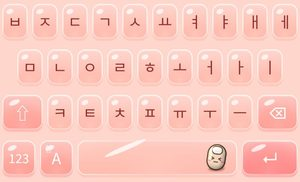
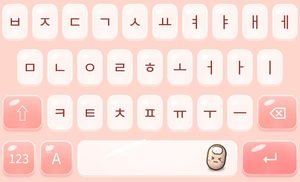
2026.11.12-2 테마 20가지 정리
Claude-Session: https://claude.ai/code/session_01GvSCgEXELCVfxACkb9NKF6

diff --git a/Shared/KBTheme.swift b/Shared/KBTheme.swift
@@ -55,44 +55,28 @@ struct KBTheme {
                 pressKey: c(232, 228, 222), pressSpecial: c(150, 14, 60),
                 text: c(0, 62, 146), specialText: .white,
                 accent: c(200, 156, 60), depth: 4, radius: 10, bgImage: "bg_stripe"),
-        KBTheme(id: "mint", name: "민트 소다",
-                bg: c(132, 222, 206), key: c(236, 252, 248), special: c(90, 200, 186),
-                pressKey: c(212, 240, 234), pressSpecial: c(74, 184, 170),
-                text: c(30, 96, 92), specialText: .white,
-                accent: c(44, 170, 190), depth: 4, radius: 10),
-        KBTheme(id: "peach", name: "피치",
-                bg: c(255, 214, 204), key: c(255, 176, 160), special: c(255, 140, 130),
-                pressKey: c(250, 150, 134), pressSpecial: c(236, 116, 106),
-                text: c(150, 50, 46), specialText: .white,
-                accent: c(255, 110, 110), depth: 4, radius: 12),
-        KBTheme(id: "lime", name: "라임",
-                bg: c(214, 236, 190), key: c(249, 252, 241), special: c(176, 220, 110),
-                pressKey: c(232, 242, 218), pressSpecial: c(156, 204, 90),
-                text: c(60, 90, 40), specialText: c(40, 70, 24),
-                side: c(196, 214, 168), sideSpecial: c(116, 166, 56), accent: c(110, 172, 52),
-                depth: 4, radius: 10),
-        KBTheme(id: "lavender", name: "라벤더",
-                bg: c(232, 224, 248), key: c(242, 235, 253), special: c(198, 180, 240),
-                pressKey: c(226, 216, 246), pressSpecial: c(180, 160, 230),
-                text: c(100, 80, 150), specialText: .white,
-                accent: c(160, 130, 232), depth: 4, radius: 12),
-        KBTheme(id: "pin", name: "핀스트라이프",
-                bg: c(250, 250, 251), key: .white, special: c(30, 30, 34),
-                pressKey: c(236, 236, 238), pressSpecial: c(54, 54, 58),
-                text: c(24, 24, 28), specialText: .white,
-                accent: c(204, 24, 44), depth: 4, radius: 10, bgImage: "bg_pin"),
         KBTheme(id: "race", name: "레이싱 레드",
                 bg: c(16, 18, 24), key: c(30, 30, 33), special: c(190, 18, 28),
                 pressKey: c(46, 46, 50), pressSpecial: c(160, 12, 22),
                 text: c(236, 236, 238), specialText: .white,
                 accent: c(214, 22, 32), depth: 4, radius: 10),
 
-        // ---- 레트로 10색 (키캡 모양 고르기) ----
+        // ---- 레트로 10색 (키캡 모양 고르기),
         KBTheme(id: "rt_rose", name: "블랙 & 로즈 골드",
                 bg: c(14, 12, 14), key: c(42, 38, 40), special: c(28, 25, 27),
                 pressKey: c(60, 55, 57), pressSpecial: c(46, 42, 44),
                 text: c(226, 176, 156), specialText: c(226, 176, 156),
                 depth: 4, radius: 10, short: "로즈 골드"),
+        KBTheme(id: "rt_mono", name: "블랙",
+                bg: c(30, 30, 34), key: c(70, 70, 76), special: c(50, 50, 55),
+                pressKey: c(92, 92, 98), pressSpecial: c(70, 70, 76),
+                text: c(246, 246, 242), specialText: c(246, 246, 242),
+                depth: 4, radius: 10, short: "블랙"),
+        KBTheme(id: "pin", name: "핀스트라이프",
+                bg: c(250, 250, 251), key: .white, special: c(30, 30, 34),
+                pressKey: c(236, 236, 238), pressSpecial: c(54, 54, 58),
+                text: c(24, 24, 28), specialText: .white,
+                accent: c(204, 24, 44), depth: 4, radius: 10, bgImage: "bg_pin"),
         KBTheme(id: "rt_navy", name: "네이비 & 오렌지",
                 bg: c(36, 52, 92), key: c(246, 242, 232), special: c(72, 98, 156),
                 pressKey: c(231, 227, 218), pressSpecial: c(66, 90, 143),
@@ -103,43 +87,16 @@ struct KBTheme {
                 pressKey: c(75, 116, 206), pressSpecial: c(234, 187, 58),
                 text: c(255, 255, 255), specialText: c(90, 60, 10),
                 accent: c(255, 204, 64), depth: 4, radius: 10, short: "로열 블루"),
-        KBTheme(id: "rt_mint", name: "민트 & 크림",
-                bg: c(120, 220, 200), key: c(255, 253, 242), special: c(70, 206, 184),
-                pressKey: c(239, 237, 227), pressSpecial: c(64, 189, 169),
-                text: c(40, 110, 100), specialText: .white,
-                accent: c(255, 112, 90), depth: 4, radius: 10, short: "민트 크림"),
-        KBTheme(id: "rt_cherry", name: "체리 & 크림",
-                bg: c(214, 44, 72), key: c(255, 242, 228), special: c(255, 90, 110),
-                pressKey: c(239, 227, 214), pressSpecial: c(234, 82, 101),
-                text: c(170, 40, 60), specialText: .white,
-                accent: c(255, 196, 90), depth: 4, radius: 10, short: "체리"),
-        KBTheme(id: "rt_mono", name: "블랙",
-                bg: c(30, 30, 34), key: c(70, 70, 76), special: c(50, 50, 55),
-                pressKey: c(92, 92, 98), pressSpecial: c(70, 70, 76),
-                text: c(246, 246, 242), specialText: c(246, 246, 242),
-                depth: 4, radius: 10, short: "블랙"),
-        KBTheme(id: "rt_milk", name: "딸기 우유",
-                bg: c(255, 206, 220), key: c(255, 255, 255), special: c(255, 116, 156),
-                pressKey: c(239, 239, 239), pressSpecial: c(234, 106, 143),
-                text: c(200, 70, 110), specialText: .white,
-                accent: c(255, 72, 124), depth: 4, radius: 10, short: "딸기 우유"),
-        KBTheme(id: "rt_matcha", name: "말차 라떼",
-                bg: c(168, 214, 130), key: c(252, 252, 238), special: c(104, 176, 80),
-                pressKey: c(236, 236, 223), pressSpecial: c(95, 161, 73),
-                text: c(70, 110, 50), specialText: .white,
-                accent: c(226, 146, 74), depth: 4, radius: 10, short: "말차"),
+        KBTheme(id: "aurora", name: "오로라",
+                bg: c(40, 44, 100), key: c(214, 240, 250), special: c(140, 110, 230),
+                pressKey: c(190, 222, 238), pressSpecial: c(120, 92, 210),
+                text: c(50, 70, 130), specialText: .white,
+                accent: c(70, 206, 170)),
         KBTheme(id: "rt_sky", name: "하늘 & 핑크",
                 bg: c(204, 228, 252), key: c(255, 255, 255), special: c(118, 180, 244),
                 pressKey: c(239, 239, 239), pressSpecial: c(108, 165, 224),
                 text: c(60, 110, 170), specialText: .white,
                 accent: c(255, 128, 170), depth: 4, radius: 10, short: "하늘 핑크"),
-        KBTheme(id: "rt_lavender", name: "라벤더 드림",
-                bg: c(178, 148, 244), key: c(250, 246, 255), special: c(196, 156, 255),
-                pressKey: c(235, 231, 239), pressSpecial: c(180, 143, 234),
-                text: c(110, 70, 190), specialText: .white,
-                accent: c(136, 86, 250), depth: 4, radius: 10, short: "라벤더"),
-
-        // ---- 겨울 (레트로 기계식 키캡: 오목한 윗면 + 도톰한 몸통) ----
         KBTheme(id: "winter", name: "눈사람",
                 bg: c(170, 200, 240), key: c(252, 254, 255), special: c(150, 190, 240),
                 pressKey: c(226, 238, 252), pressSpecial: c(130, 172, 228),
@@ -147,6 +104,36 @@ struct KBTheme {
                 accent: c(110, 160, 232),
                 bgImage: "bg_winter", enterIcon: "enter_snowman", sticker: "sticker_snow",
                 cap: "sa"),
+        KBTheme(id: "mint", name: "민트 소다",
+                bg: c(132, 222, 206), key: c(236, 252, 248), special: c(90, 200, 186),
+                pressKey: c(212, 240, 234), pressSpecial: c(74, 184, 170),
+                text: c(30, 96, 92), specialText: .white,
+                accent: c(44, 170, 190), depth: 4, radius: 10),
+        KBTheme(id: "rt_mint", name: "민트 & 크림",
+                bg: c(120, 220, 200), key: c(255, 253, 242), special: c(70, 206, 184),
+                pressKey: c(239, 237, 227), pressSpecial: c(64, 189, 169),
+                text: c(40, 110, 100), specialText: .white,
+                accent: c(255, 112, 90), depth: 4, radius: 10, short: "민트 크림"),
+        KBTheme(id: "holly", name: "홀리 그린",
+                bg: c(30, 110, 70), key: c(255, 250, 240), special: c(220, 50, 56),
+                pressKey: c(240, 232, 218), pressSpecial: c(196, 40, 48),
+                text: c(30, 100, 60), specialText: .white,
+                accent: c(220, 50, 56), short: "홀리"),
+        KBTheme(id: "peach", name: "피치",
+                bg: c(255, 214, 204), key: c(255, 251, 249), special: c(255, 140, 130),
+                pressKey: c(246, 234, 230), pressSpecial: c(236, 116, 106),
+                text: c(150, 50, 46), specialText: .white,
+                accent: c(255, 110, 110), depth: 4, radius: 12),
+        KBTheme(id: "rt_cherry", name: "체리 & 크림",
+                bg: c(214, 44, 72), key: c(255, 242, 228), special: c(255, 90, 110),
+                pressKey: c(239, 227, 214), pressSpecial: c(234, 82, 101),
+                text: c(170, 40, 60), specialText: .white,
+                accent: c(255, 196, 90), depth: 4, radius: 10, short: "체리"),
+        KBTheme(id: "rt_milk", name: "딸기 우유",
+                bg: c(255, 206, 220), key: c(255, 255, 255), special: c(255, 116, 156),
+                pressKey: c(239, 239, 239), pressSpecial: c(234, 106, 143),
+                text: c(200, 70, 110), specialText: .white,
+                accent: c(255, 72, 124), depth: 4, radius: 10, short: "딸기 우유"),
         KBTheme(id: "red", name: "크리스마스",
                 bg: c(150, 20, 32), key: c(255, 248, 238), special: c(214, 52, 58),
                 pressKey: c(240, 226, 214), pressSpecial: c(190, 40, 48),
@@ -154,21 +141,18 @@ struct KBTheme {
                 accent: c(34, 130, 70),
                 bgImage: "bg_red", enterIcon: "enter_snowman_red", sticker: "sticker_holly",
                 cap: "sa"),
-        KBTheme(id: "holly", name: "홀리 그린",
-                bg: c(30, 110, 70), key: c(255, 250, 240), special: c(220, 50, 56),
-                pressKey: c(240, 232, 218), pressSpecial: c(196, 40, 48),
-                text: c(30, 100, 60), specialText: .white,
-                accent: c(220, 50, 56), short: "홀리"),
-        KBTheme(id: "choco", name: "핫초코",
-                bg: c(110, 70, 50), key: c(255, 248, 236), special: c(170, 110, 80),
-                pressKey: c(240, 228, 212), pressSpecial: c(150, 94, 66),
-                text: c(110, 70, 50), specialText: .white,
-                accent: c(240, 150, 170)),
-        KBTheme(id: "aurora", name: "오로라",
-                bg: c(40, 44, 100), key: c(214, 240, 250), special: c(140, 110, 230),
-                pressKey: c(190, 222, 238), pressSpecial: c(120, 92, 210),
-                text: c(50, 70, 130), specialText: .white,
-                accent: c(70, 206, 170)),
+        KBTheme(id: "lavender", name: "라벤더",
+                bg: c(232, 224, 248), key: c(242, 235, 253), special: c(198, 180, 240),
+                pressKey: c(226, 216, 246), pressSpecial: c(180, 160, 230),
+                text: c(100, 80, 150), specialText: .white,
+                accent: c(160, 130, 232), depth: 4, radius: 12),
+        KBTheme(id: "rt_lavender", name: "라벤더 드림",
+                bg: c(178, 148, 244), key: c(250, 246, 255), special: c(196, 156, 255),
+                pressKey: c(235, 231, 239), pressSpecial: c(180, 143, 234),
+                text: c(110, 70, 190), specialText: .white,
+                accent: c(136, 86, 250), depth: 4, radius: 10, short: "라벤더"),
+
+        // ---- 겨울 (레트로 기계식 키캡: 오목한 윗면 + 도톰한 몸통),
     ]
 
     static var colors: [KBTheme] { all.filter { $0.group == "color" } }

diff --git a/App/FingerErrorApp.swift b/App/FingerErrorApp.swift
@@ -96,7 +96,7 @@ struct ContentView: View {
                 }
             }
             .safeAreaInset(edge: .bottom) {
-                Text("버전 2026.11.12 (테마 하나로 합침) · 100개마다 리포트 · 한/A 영어 · 테마별 팻핑이 · 기념일").font(.caption2).foregroundStyle(.secondary).padding(4)
+                Text("버전 2026.11.12-2 (테마 20가지 정리) · 100개마다 리포트 · 한/A 영어 · 테마별 팻핑이 · 기념일").font(.caption2).foregroundStyle(.secondary).padding(4)
             }
             .navigationTitle("핑거에러")
             // 3D 젤리: 크림 배경 + 복숭아 포인트
